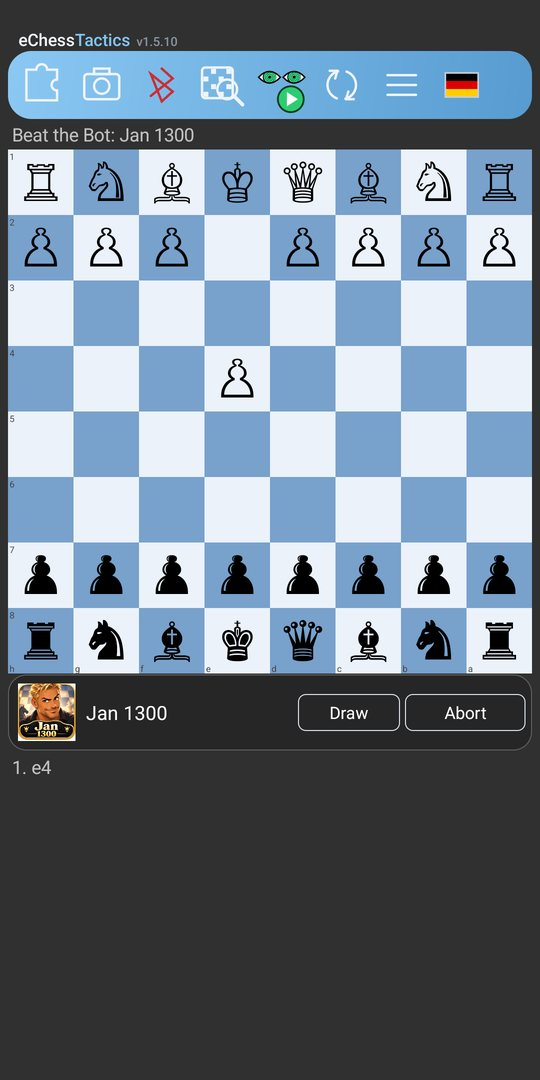
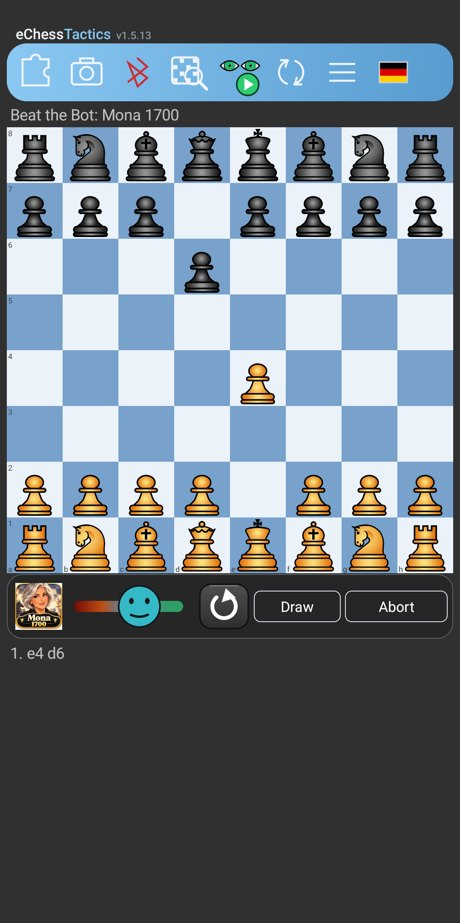
eChessTactics page: new-design screenshots, docs for the new menu and PGN open-with, featured card image no longer cropped

diff --git a/echesstactics/docs.html b/echesstactics/docs.html
@@ -152,7 +152,7 @@
         <h2 id="pgn">PGN viewer</h2>
         <p>Choose <strong>PGN Viewer</strong> in the puzzle menu. The first time you pick a PGN file (for example from the Download folder). After that the last used file opens automatically; if it is gone, the file dialog appears again. The first game opens at once.</p>
         <ul>
-          <li>The navigation bar has: previous, the move count in the middle, next, play/stop, a <strong>list</strong> key to choose another game and a <strong>folder</strong> key to open another file. Games are named after their tags (White – Black, or the event); unnamed games are called “Game 1”, “Game 2”, and so on.</li>
+          <li>The navigation bar has: previous, the move count in the middle, next, play/stop, a <strong>list</strong> key to choose another game and a <strong>folder</strong> key that asks whether to choose a file or to paste a PGN from the clipboard. eChessTactics also appears under &ldquo;Open with&rdquo; for .pgn files (file manager, mail, messenger): the file then opens straight in the PGN viewer. Games are named after their tags (White – Black, or the event); unnamed games are called “Game 1”, “Game 2”, and so on.</li>
           <li>The notation under the board is tappable. The last move is highlighted on the board.</li>
           <li><strong>Comments</strong> appear as a card below the board, above the notation, and disappear with the next move. Where a position has <strong>variations</strong>, the card lets you pick one; the main line is the default. To see a different one, step back and arrive at that position again. The author’s own arrows in the file are ignored.</li>
           <li><strong>Play</strong> plays one move every n seconds on the screen (long press sets n).</li>
@@ -207,19 +207,17 @@
         <p>Hold the white or black <strong>pawn</strong> in the row below the board (next to <em>Stop</em> and <em>Send FEN</em>) for about 1.5 seconds. A window offers four sets: <strong>Standard</strong>, <strong>Merida</strong>, <strong>MPChess</strong> and <strong>Bryan’s Italian</strong>. A tap on a set switches it on at once; it stays active and is used at every start, on all boards of the app. Merida (Armando Hernandez Marroquin) and MPChess (Maxime Chupin) are free piece sets under the GPL; Bryan’s Italian is a gift from Bryan Withby to this app.</p>
 
         <h2 id="menu">The menu</h2>
+        <p>All windows of the app (menu, lists, confirmations) are dark sheets in the colours of the board and sit at the top of the screen. Only in the middle of a running game (Tal, bot) and in the running trainer they sit at the bottom so that the board stays visible. The <strong>&lsaquo;</strong> at the top left takes you one step back in every sub-menu.</p>
         <ul>
           <li><strong>Free analysis</strong> – only with a connected board.</li>
           <li><strong>Help</strong> – the short in-app guide.</li>
-          <li><strong>Privacy policy</strong> – opens the <a href="../echesstactics-privacy/">privacy policy</a>.</li>
+          <li><strong>Reset status</strong> – rating (back to 500), mate puzzles (the mate training starts again at puzzle 1) and bot progress (deletes all wins and green checks of Beat the Bot). Every reset asks first.</li>
+          <li><strong>FEN tools</strong> – create a position from a FEN, show the FEN of the position, share it.</li>
+          <li><strong>E-board functions</strong> – E-board PGN download (see <a href="#download">E-board PGN download</a>), player side on the Chessnut Move, LED colour for the Spectrum and for the iChessOne (red, green, blue or orange for the set-up help) and Bauerino: White at the bottom. What needs a particular board is grey while that board is not connected. The Bauerino protocol (v1 or v2) is chosen when you select the board, before it connects.</li>
+          <li><strong>Share own database</strong> and <strong>Share diagnostic log</strong> – for troubleshooting; the file goes through the Android share sheet and nothing is sent automatically.</li>
           <li><strong>Support (Discord)</strong> – opens the electricchess Discord server for questions, bugs and wishes.</li>
-          <li><strong>Reset rating</strong> – back to 500.</li>
-          <li><strong>Reset mate puzzles</strong> – the mate training starts again at puzzle 1.</li>
-          <li><strong>Reset bot progress</strong> – deletes all wins and green checks of Beat the Bot.</li>
-          <li><strong>Chessnut Move player side</strong> – only active while a Chessnut Move is connected.</li>
-          <li><strong>Create FEN / Show FEN / Share FEN / Share own database.</strong></li>
-          <li><strong>E-Board PGN Download</strong> – see <a href="#download">E-board PGN download</a>.</li>
-          <li><strong>Share diagnostic log</strong> – for troubleshooting; the file goes through the Android share sheet and nothing is sent automatically.</li>
           <li><strong>Buy me a tea</strong> – an optional tip (5, 10, 20 or 50 euros) through Google Play. Nothing is unlocked by a tip.</li>
+          <li><strong>Privacy policy</strong> (at the very bottom) – opens the <a href="../echesstactics-privacy/">privacy policy</a>.</li>
         </ul>
 
         <h2 id="faq">FAQ</h2>

diff --git a/echesstactics/index.html b/echesstactics/index.html
@@ -168,7 +168,7 @@
       <div class="pp-shots">
         <figure><img src="../assets/echesstactics/bot-1-select.jpg" alt="Beat the Bot: the bots of a strength group" loading="lazy"><figcaption>Beat the Bot: pick an opponent</figcaption></figure>
         <figure><img src="../assets/echesstactics/bot-2-start.jpg" alt="A bot with picture, style and colour choice" loading="lazy"><figcaption>One bot: style and colour</figcaption></figure>
-        <figure><img src="../assets/echesstactics/bot-3-game.jpg" alt="A game against a bot with the mood bar" loading="lazy"><figcaption>Game with the mood bar</figcaption></figure>
+        <figure><img src="../assets/echesstactics/bot-3-game.jpg" alt="A game against a bot with the mood bar" loading="lazy"><figcaption>Game with the mood bar and the take-back key</figcaption></figure>
         <figure><img src="../assets/echesstactics/shot-1-modes.png" alt="Puzzle modes menu" loading="lazy"><figcaption>Puzzle modes</figcaption></figure>
         <figure><img src="../assets/echesstactics/shot-2-mate.png" alt="Mate training with the navigation bar" loading="lazy"><figcaption>Mate training: puzzle 23 of 7,200</figcaption></figure>
         <figure><img src="../assets/echesstactics/shot-3-analysis.png" alt="Endgame analysis with arrows and three variations" loading="lazy"><figcaption>Analysis with arrows and adjustable variations</figcaption></figure>
@@ -177,7 +177,6 @@
         <figure><img src="../assets/echesstactics/trainer-1-start.jpg" alt="PGN trainer: choose colour, basis and run" loading="lazy"><figcaption>PGN trainer: colour, basis and run</figcaption></figure>
         <figure><img src="../assets/echesstactics/trainer-2-fork.jpg" alt="PGN trainer: choosing a variation at a fork" loading="lazy"><figcaption>My way through the tree: one fork at a time</figcaption></figure>
         <figure><img src="../assets/echesstactics/trainer-3-game.jpg" alt="PGN trainer exercise with hint and restart keys" loading="lazy"><figcaption>An exercise with hint, restart and end keys</figcaption></figure>
-        <figure><img src="../assets/echesstactics/bot-4-takeback.jpg" alt="Game against a bot with the take-back key" loading="lazy"><figcaption>Beat the Bot: the take-back key left of Draw</figcaption></figure>
       </div>
     </section>
 

diff --git a/styles.css b/styles.css
@@ -139,6 +139,8 @@ h2 { margin: 6px 0 0; font-size: clamp(2rem, 5vw, 4rem); letter-spacing: -.05em;
 .project-card.featured { grid-column: span 2; display: grid; grid-template-columns: 1.25fr .75fr; }
 .media { position: relative; background: #eceef2; min-height: 280px; }
 .media img, .media video { width: 100%; height: 100%; object-fit: cover; }
+.project-card.featured .media { background: #15191f; display: flex; align-items: center; }
+.project-card.featured .media img { height: auto; max-height: 100%; object-fit: contain; }
 .badge {
   position: absolute; left: 16px; top: 16px;
   background: rgba(16,17,20,.86); color: white;
@@ -184,6 +186,7 @@ footer {
   .hero { grid-template-columns: 1fr; min-height: auto; padding-top: 70px; }
   .project-grid { grid-template-columns: 1fr; }
   .project-card.featured { grid-column: auto; grid-template-columns: 1fr; }
+  .project-card.featured .media { min-height: 0; }
   .section-heading, .about { display: block; }
   .section-heading > p { margin-top: 18px; }
   .about-copy { margin-top: 26px; }
